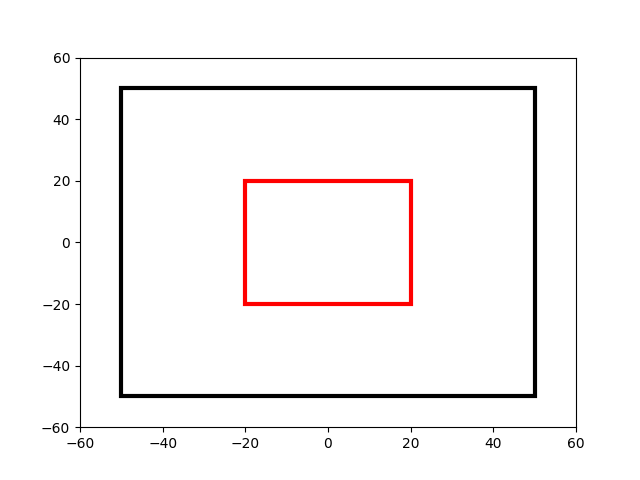
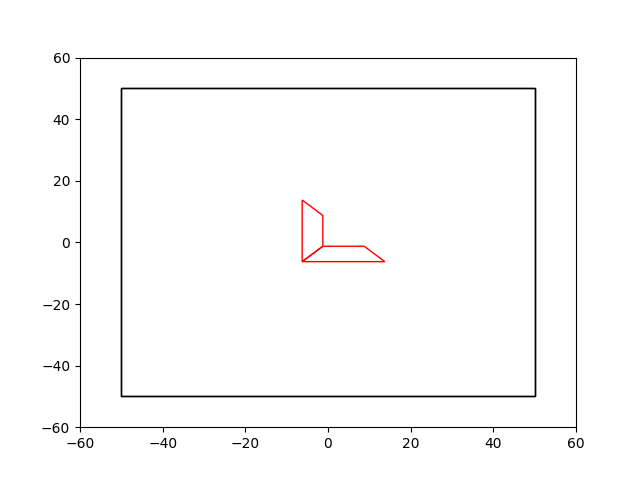
splat_commit

Changed region(s): [[0.1875, 0.1562, 0.8438, 0.8438], [0.375, 0.375, 0.6562, 0.6562], [0.4688, 0.5, 0.5938, 0.5625]]

diff --git a/src/run_sim.py b/src/run_sim.py
@@ -4,9 +4,10 @@ import re
 import os
 
 from numpy import array as np_convert_to_array
+
 np_objarr = lambda x: np_convert_to_array(x,dtype="object")
 
-from collisions import sort_vertices_ccw, collide_oo, collide_ow
+from collisions import sort_vertices_ccw, collide_ow
 
 from collections.abc import Iterable
 import jax.numpy as jnp
@@ -19,7 +20,7 @@ from tqdm import trange
 
 from constants import *
 
-from objects import ConvexPolygon, convex_polygon
+from objects import ConvexPolygon, convex_polygon,glue_polygons_together
 
 
 from visualization import animate_particles
@@ -142,6 +143,7 @@ def run_sim(
     time.
     """
 
+    num_particles =                     sim_params.get("num_particles",DEFAULT_NUM_PARTICLES)
     dt =                                sim_params.get("dt",DEFAULT_DT)
     total_time =                        sim_params.get("total_time",DEFAULT_TOTAL_TIME)
     tumble_rate =                       sim_params.get("tumble_rate",DEFAULT_TUMBLE_RATE)
@@ -158,8 +160,6 @@ def run_sim(
 
     rand_key = initial_random_key
 
-    num_particles = initial_heading_angles.shape[0]
-    assert initial_positions.shape == (num_particles,2)
     num_steps = int(total_time / dt/MANY)
     
     if hell:
@@ -169,8 +169,10 @@ def run_sim(
         r_hell = None
         hell_q = None
 
-    r = initial_positions.copy()
-    theta = initial_heading_angles.copy()
+    r = initial_positions.copy()[:num_particles]
+    theta = initial_heading_angles.copy()[:num_particles]
+
+    assert r.shape == (sim_params["num_particles"],2)
 
     r_history.append(r)
     theta_history.append(theta)
@@ -215,7 +217,7 @@ def run_sim(
         return (jnp.array(r_history), jnp.array(theta_history),poly_vertex_history, r_hell)
     else:
         return r, theta, [poly.get_vertices(centroids[i],angles[i]) for i,poly in enumerate(polygons)]
-
+# marker
 @jit
 def do_many_sim_steps(
         rand_key: jnp.ndarray, 
@@ -242,7 +244,7 @@ def do_many_sim_steps(
         for poly_indx, poly in enumerate(polygons):
             mpv_corrections = poly.get_min_particle_push_vector(centroids[poly_indx], angles[poly_indx], r)
             poly_com_adjustment = -jnp.sum(mpv_corrections,axis=0) * translation_gamma / poly.pos_gamma
-            poly_angle_adjustment = poly.get_rotation_from_wall_particle_interaction(centroids[poly_indx], r, mpv_corrections, translation_gamma)
+            poly_angle_adjustment = poly.get_rotation_from_wall_particle_interaction(centroids[poly_indx], angles[poly_indx], r, mpv_corrections, translation_gamma)
 
             delta_r += mpv_corrections
             centroids[poly_indx] += poly_com_adjustment
@@ -250,13 +252,12 @@ def do_many_sim_steps(
             
             wall_com_correction, wall_rot_correction = collide_ow(poly, centroids[poly_indx], angles[poly_indx], box_size/2) # correct for object-wall collisions
             angles[poly_indx] += wall_rot_correction
-            wall_com_correction, wall_rot_correction = collide_ow(poly, centroids[poly_indx], angles[poly_indx], box_size/2) # correct for object-wall collisions
-            centroids[poly_indx] += wall_com_correction
+            centroids[poly_indx] += wall_com_correction * 0.1
 
             for op_indx in range(poly_indx):
-                correct_op, correct_poly = collide_oo(polygons[op_indx],centroids[op_indx],angles[op_indx],poly,centroids[poly_indx],angles[poly_indx])
-                centroids[poly_indx] += correct_poly
-                centroids[op_indx] += correct_op
+                correct_op, correct_poly = polygons[op_indx].collide_oo_wrapper(centroids[op_indx],angles[op_indx],poly,centroids[poly_indx],angles[poly_indx])
+                centroids[poly_indx] -= correct_poly
+                centroids[op_indx] -= correct_op
                 
             if r_hell is not None:
                 hell_q = hell_q + poly.hell_query(centroids[poly_indx], angles[poly_indx], r, cutoff=hell_cutoff)
@@ -347,33 +348,51 @@ def get_initial_fill_shape(
 
 
 def main():
-    square = jnp.array([[20.,20.],[-20.,20.],[-20.,-20.],[20.,-20]]) + jnp.array([-15,0])
-    triangle = jnp.array([[-20.,20.],[-20.,-20.],[20.,-20.]]) + jnp.array([25,-25])
+    # t1 = jnp.array([[-10.,-10.],[10.,-10.],[5.,-5],[-10.,-5]])
+    # t2 = jnp.array([[-10.,-10.],[-5.,-10.],[-5.,5.],[-10.,10.]])
+
+    # t3 = jnp.array([[-10.,-10.],[10.,-10.],[5.,-5],[-10.,-5]]) - jnp.array([6.,6.])
+    # t4 = jnp.array([[-10.,-10.],[-5.,-10.],[-5.,5.],[-10.,10.]]) - jnp.array([6.,6.])
+
+    # r_0, theta_0 = get_initial_fill_shape(
+    #     "two_arrows",
+    #     [t1, t2, t3, t4],
+    #     DEFAULT_BOX_SIZE,
+    #     overwrite_cache=True
+    #     )
+
+    # glu1, c1 = glue_polygons_together([t1,t2])
+    # glu2, c2 = glue_polygons_together([t3,t4])
 
 
+    triangle = jnp.array([[-10.,-10.],[10.,-10.],[-10.,10.]])
     r_0, theta_0 = get_initial_fill_shape(
-        "triangle_and_square",
-        [square,triangle],
+        "single_triangle",
+        [triangle],
         DEFAULT_BOX_SIZE,
-        overwrite_cache=True,
-        sim_params = {"num_particles": 10000}
-        )
-    p1, c1 = convex_polygon(square, return_centroid=True)
-    p2, c2 = convex_polygon(triangle, return_centroid=True)
+        overwrite_cache=True
+    )
+    glu, c = glue_polygons_together([triangle])
     
     sim_params = {
-        "num_particles": 3,
-        "total_time": 100.,
+        "num_particles": 10000,
+        "total_time": 1000.,
         "do_animation": True,
         "return_history": True,
-        "dt": 0.01
+        "omega": 1e-6,
+        "v0": 1.,
+        "rotation_diffusion": 1e-3
         }
 
-    r_history, theta_history, poly_history, r_hell = run_sim(r_0, theta_0, [p1,p2], [c1,c2], sim_params, hell=True)
+    r_history, theta_history, poly_history, r_hell = run_sim(r_0, theta_0, [glu], [c], sim_params, hell=False)
 
-    animate_particles(r_history, theta_history, poly_history, DEFAULT_BOX_SIZE)
-    
-    print(jnp.sum(jnp.heaviside(-r_hell,0),axis=0))
+
+
+    # r_0 = 0*r_0
+    # theta_0 = 0*theta_0 - 3*jnp.pi/4
+    # r_history, theta_history, poly_history, r_hell = run_sim(r_0, theta_0, [glu1,glu2], [c1,c2], sim_params, hell=False)
+
+    animate_particles(r_history, theta_history, poly_history, DEFAULT_BOX_SIZE,title=sim_params["omega"])
 
 
 if __name__ == "__main__":

diff --git a/src/constants.py b/src/constants.py
@@ -5,14 +5,14 @@ DEFAULT_DT = 0.01
 DEFAULT_TOTAL_TIME = 1000.
 DEFAULT_BOX_SIZE = 100.
 DEFAULT_NUM_PARTICLES = 10000
-DEFAULT_V0 = 3.
+DEFAULT_V0 = 1.
 DEFAULT_TRANSLATION_GAMMA = 1.
 DEFAULT_TRANSLATION_DIFFUSION = 0.1
 DEFAULT_ROTATION_GAMMA = 0.1
-DEFAULT_ROTATION_DIFFUSION = 1e-4
+DEFAULT_ROTATION_DIFFUSION = 1e-2
 DEFAULT_OMEGA = 2e-6*0.
 DEFAULT_TUMBLE_RATE = 1e-4
-DEFAULT_WALL_GAMMA = 300.
+DEFAULT_WALL_GAMMA = 250.
 DEFAULT_WALL_ROTATIONAL_GAMMA = 1000000.
 
 DEFAULT_GIF_FPS = 30.
